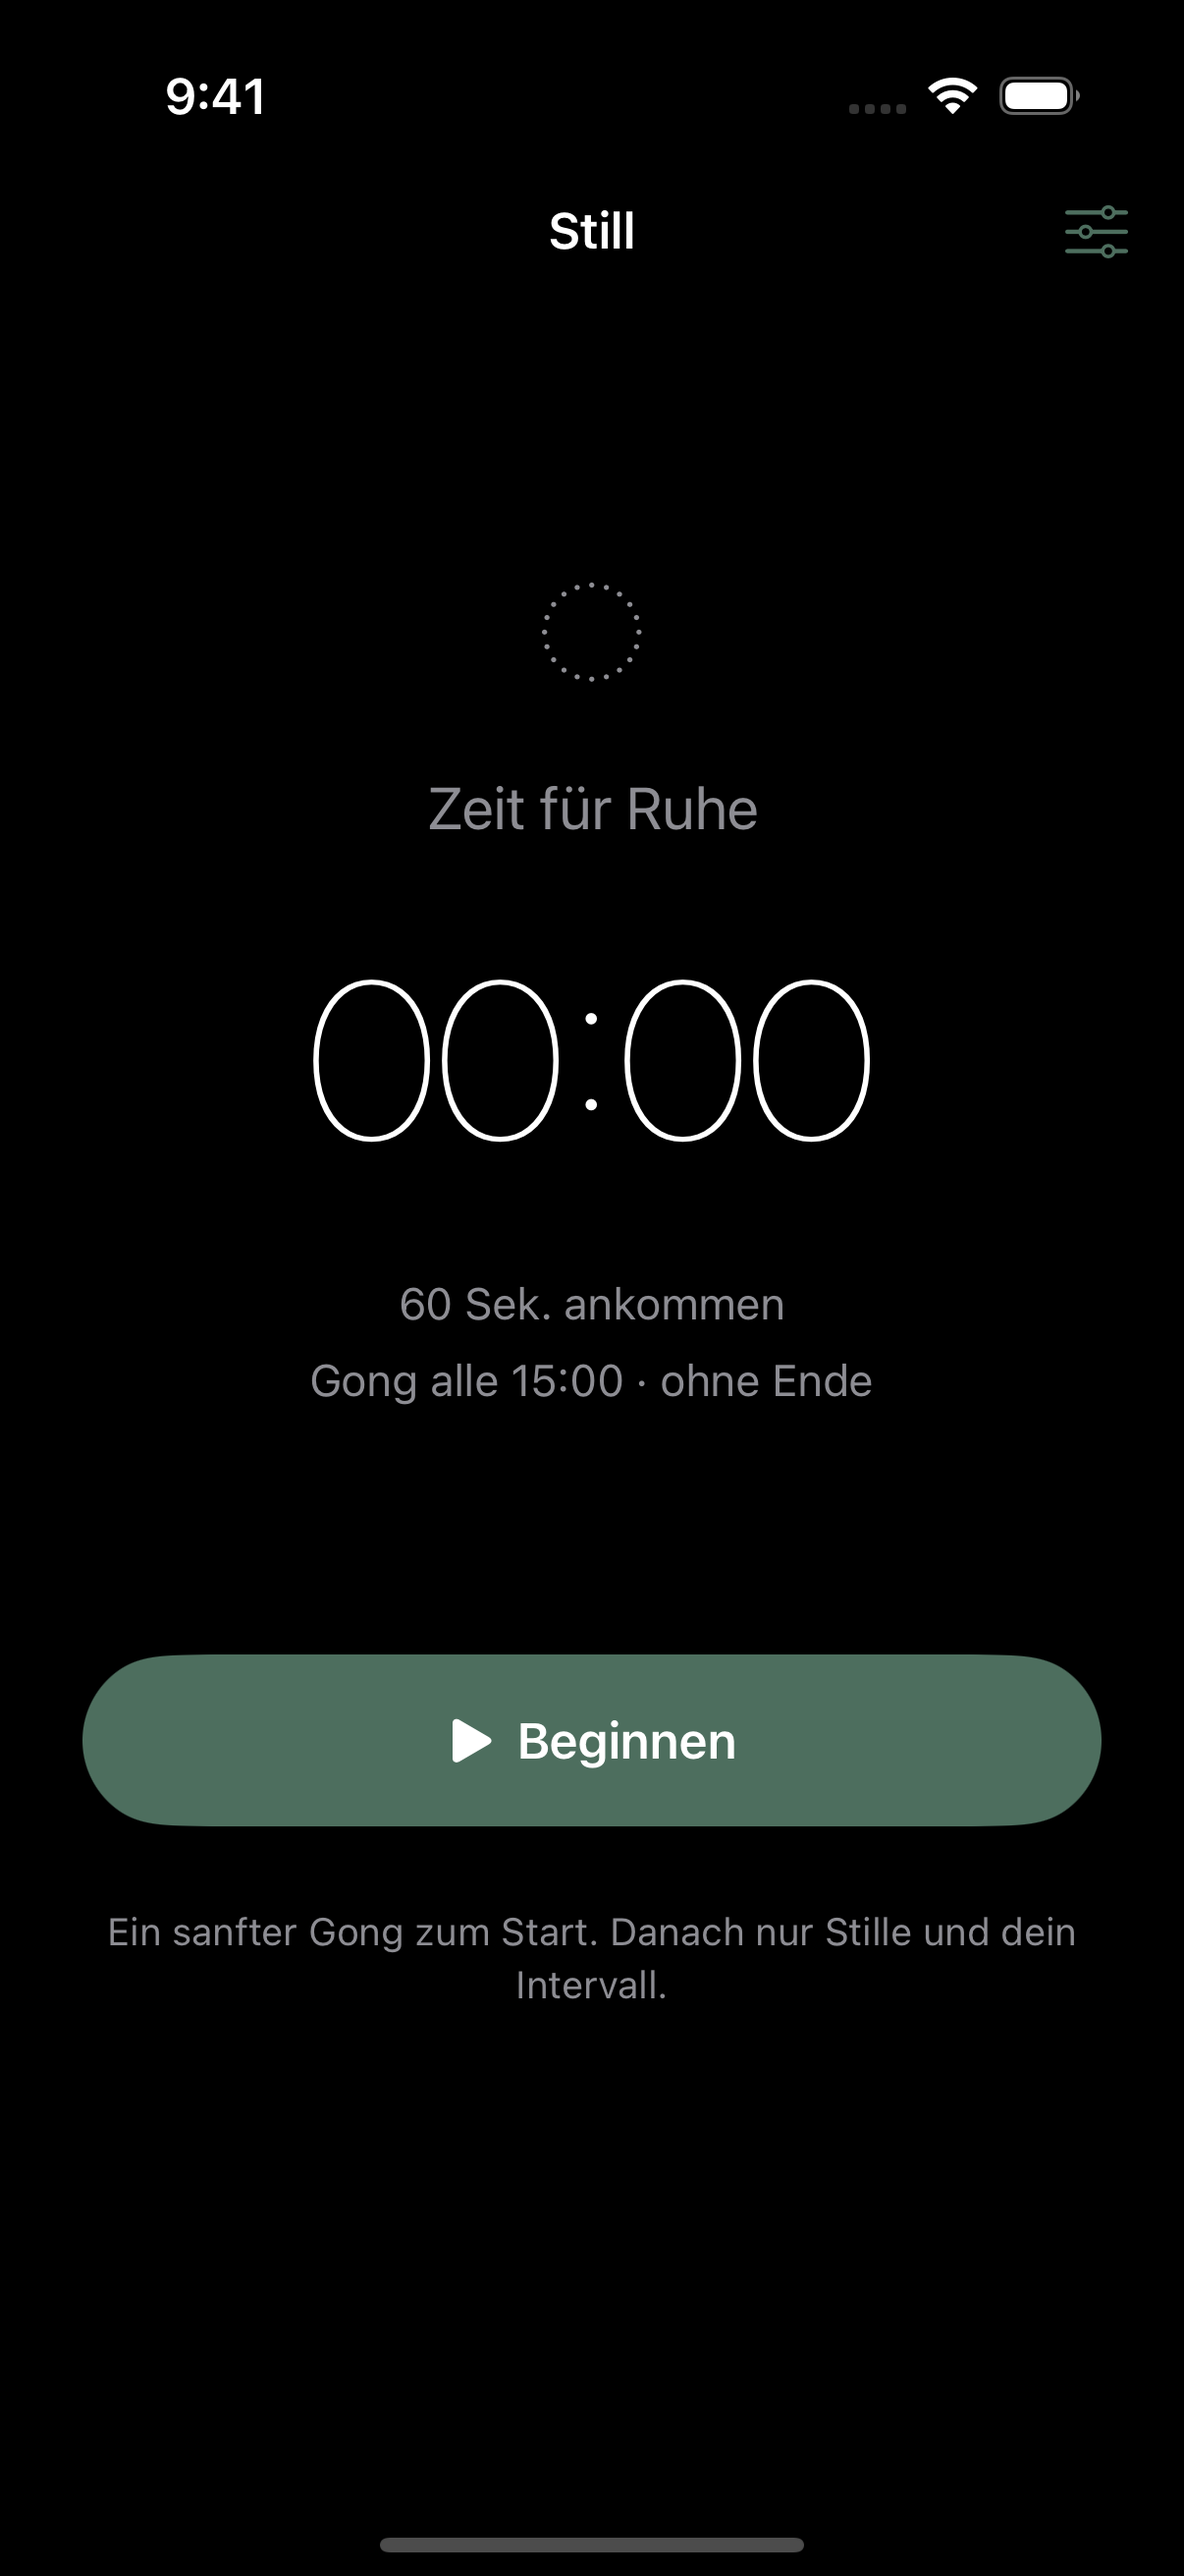
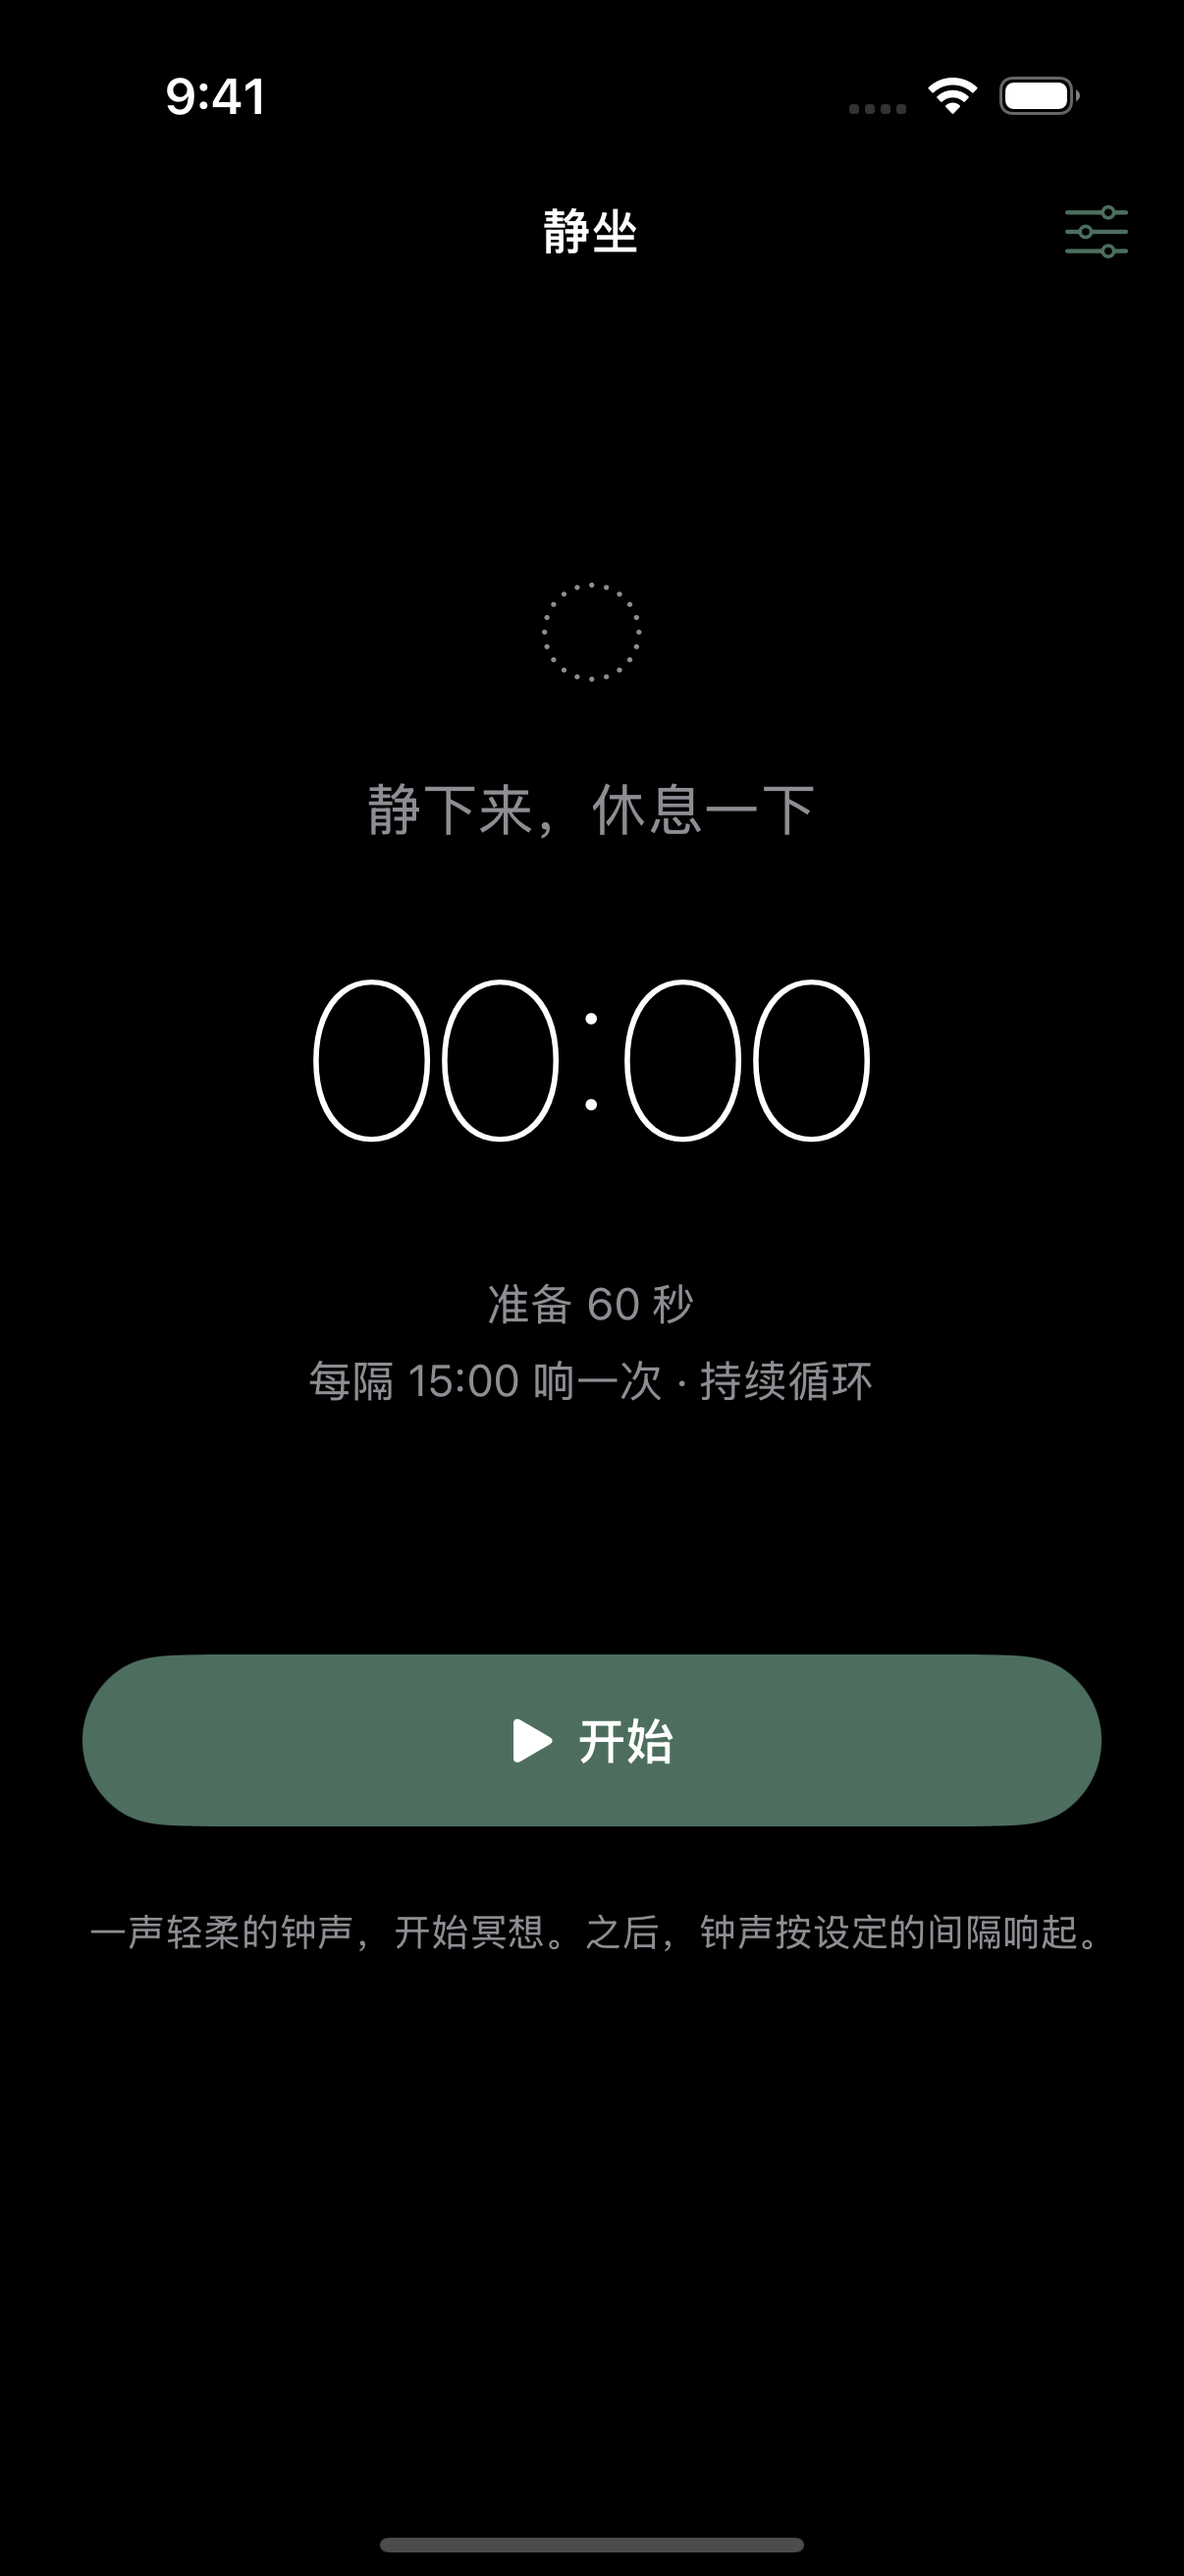
更新中文版界面预览和检查记录

diff --git a/docs/Pruefbericht.md b/docs/Pruefbericht.md
@@ -1,6 +1,6 @@
 # Prüfbericht – 18. Oktober 2026
 
-Geprüfter App-Quellcode: Commit `de07de0`. Nachfolgende Änderungen betreffen ausschließlich Anleitung, CI-Konfiguration und diese Vorschau-Dateien.
+Geprüfter App-Quellcode: Commit `de07de0`. Dieser ursprüngliche Bericht wurde nach der Sprachumstellung unten ergänzt.
 
 - Swift-Kern auf Daniels Mac erfolgreich kompiliert. Lokale XCTest-Ausführung war wegen fehlendem vollständigem Xcode nicht möglich.
 - Alle fünf XCTest-Tests auf GitHub bestanden: Vorbereitung/Intervallgrenzen, Pause/Fortsetzung ohne Vorbereitung, validierte Preset-Daten, WAV-Dauer/Gong-Hüllkurve, stille Vorbereitung.
@@ -12,3 +12,9 @@ Geprüfter App-Quellcode: Commit `de07de0`. Nachfolgende Änderungen betreffen a
 Nachweis: https://github.com/daniel4828/still-meditation/actions/runs/39159930627
 
 Nicht ausgeführt: Installation auf Daniels physischem iPhone, hörbare Gongs bei gesperrtem Bildschirm und Fokus, lange Hintergrundsitzung, Telefon-/Kopfhörer-Unterbrechungen, tatsächliche App-Bedienung in einem UI-Test. Die Checkliste dafür steht in README.md. Simulatorstart und bestandener Build ersetzen diese Gerätetests nicht.
+
+## Chinesische Oberfläche
+
+App-Quellcode `21e94d2`: vollständige Umstellung auf vereinfachtes Chinesisch, einschließlich Hinweise, VoiceOver-Texte, Fehlertexte und Anzeigename 静坐. Alle fünf Tests, vollständiger iPhone-Simulator-Build und Simulatorstart bestanden. Chinesische Hauptansicht visuell geprüft; helle und dunkle Vorschau-Dateien aktualisiert. Benutzerdefinierte Preset-Namen bleiben erhalten. Keine Änderungen an Timer- oder Audioablauf.
+
+Nachweis: https://github.com/daniel4828/still-meditation/actions/runs/39163290098

diff --git a/README.md b/README.md
@@ -32,7 +32,7 @@ Still verwendet `AVAudioSession.Category.playback` und `UIBackgroundModes = audi
 
 Die Architektur ist für gesperrten Bildschirm und aktiven Fokus „Nicht stören“ vorgesehen. Eine Zusicherung für jedes Gerät/jede iOS-Version ist ohne realen Test nicht möglich. Medienlautstärke null, ein umgeleiteter Bluetooth-Ausgang, Telefonanrufe oder vollständiges Beenden der App können die hörbare Wiedergabe verhindern. Eine laufende Sitzung wird nicht nach einem Neustart oder Beenden wiederhergestellt.
 
-- Vorher **Gong anhören** testen und die iPhone-Medienlautstärke passend einstellen.
+- Vorher **试听钟声** testen und die iPhone-Medienlautstärke passend einstellen.
 - Einmal starten, danach Bildschirm sperren. Die App nicht im App-Umschalter wegwischen.
 - Entfernte Kopfhörer oder Anrufe pausieren die Sitzung; danach bewusst fortsetzen.
 - Eine aktive Audiositzung kann andere Medien unterbrechen und braucht mehr Akku als ein inaktiver Timer. Die Stille ist Teil der Meditations-Audiospur. App-Store-Freigabe ist weder beantragt noch zugesichert.
